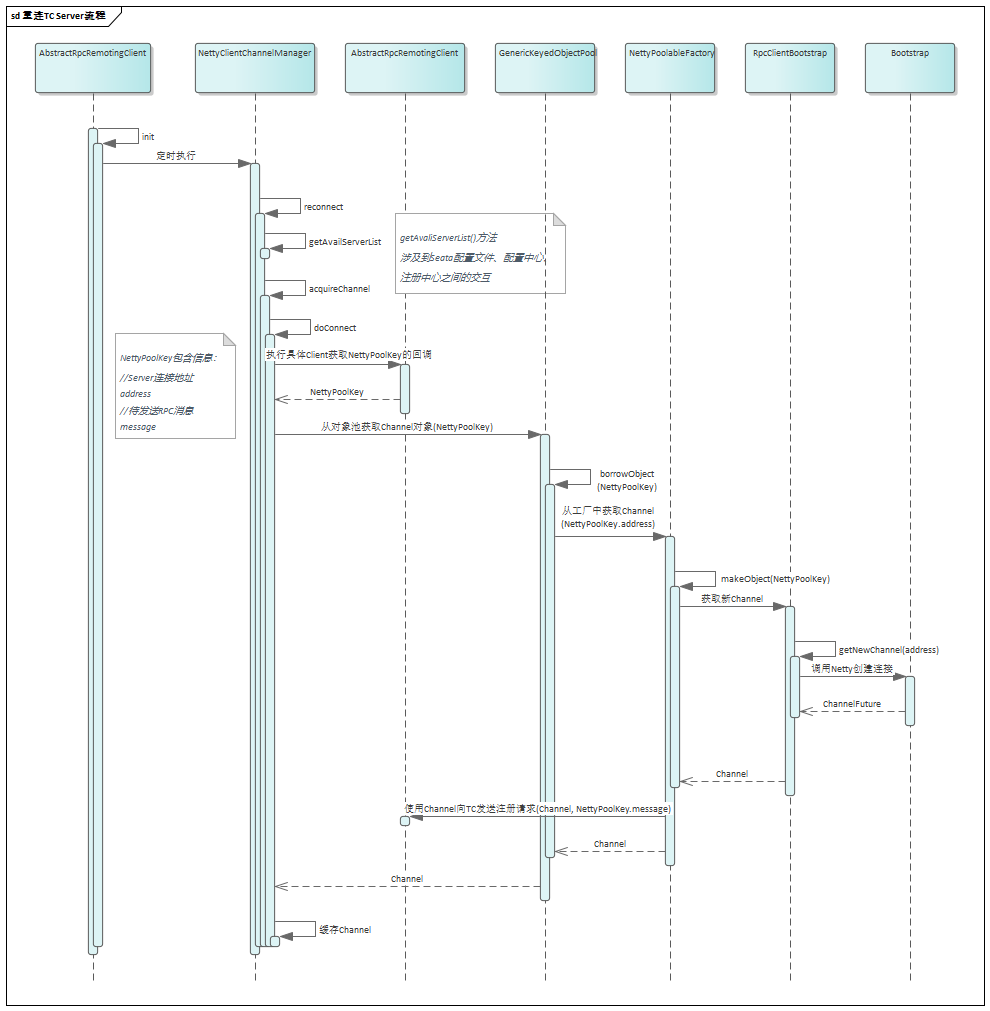
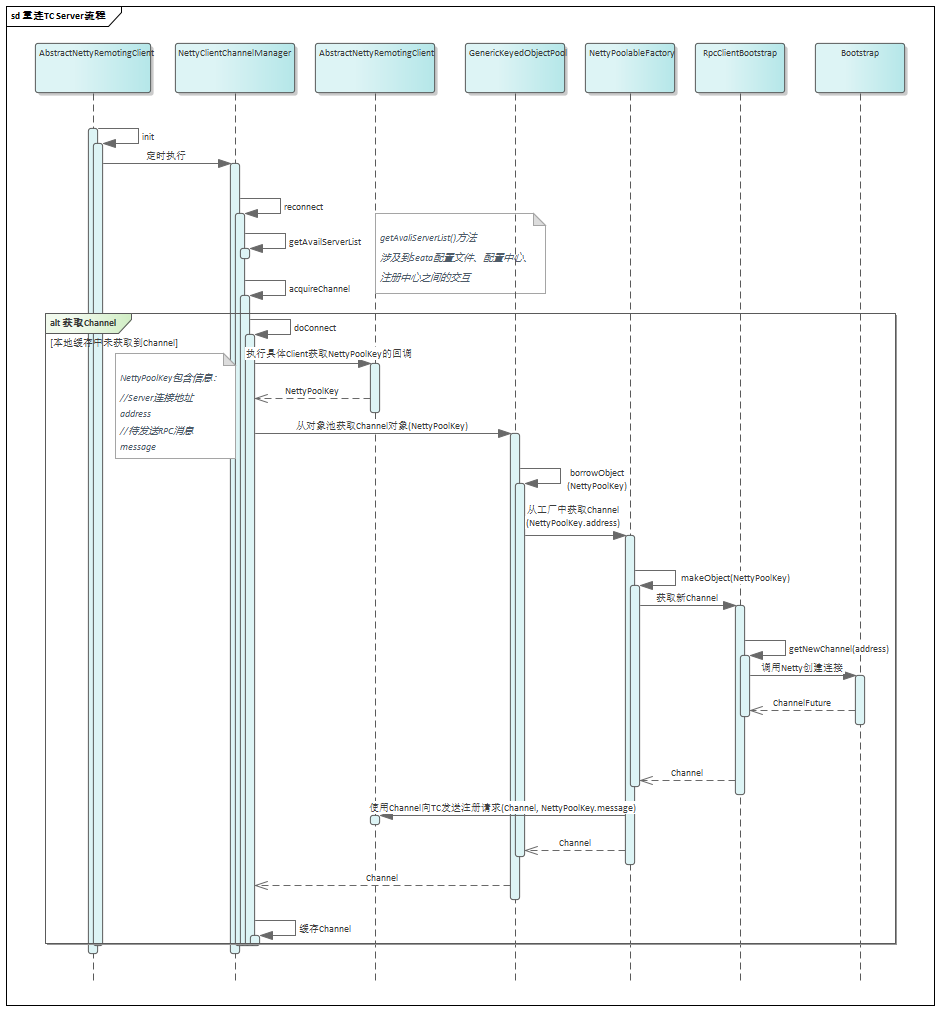
update seata

diff --git a/_posts/2021-02-28-seata-client-start-analysis-01.md b/_posts/2021-02-28-seata-client-start-analysis-01.md
@@ -28,6 +28,10 @@ tags:
 
 除此之外，应用侧RPC客户端（TMClient、RMClient）初始化、与TC建立连接的流程，也是在GlobalTransactionScanner#afterPropertiesSet()中发起的：
 ````java
+    /**
+     * package：io.seata.spring.annotation
+     * class：GlobalTransactionScanner
+     */
     @Override
     public void afterPropertiesSet() {
         if (disableGlobalTransaction) {
@@ -45,15 +49,19 @@ tags:
 ## RM & TM 的初始化与连接过程
 这里，我们以RMClient.init()为例说明，TMClient的初始化过程亦同理。
 ### 类关系的设计
-查看RMClient#init()的源码，我们发现，RMClient先构造了一个RmRpcClient，然后执行其init()方法。而RmRpcClient的构造器和init()方法，都会逐层调用父类的构造器与初始化逻辑。
+查看RMClient#init()的源码，我们发现，RMClient先构造了一个RmNettyRemotingClient，然后执行其init()方法。而RmNettyRemotingClient的构造器和init()方法，都会逐层调用父类的构造器与初始化逻辑。
 ```java
+    /**
+     * package：io.seata.rm
+     * class：RMClient
+     */
     public static void init(String applicationId, String transactionServiceGroup) {
-        //① 首先从RmRpcClient类开始，依次调用父类的构造器
-        RmRpcClient rmRpcClient = RmRpcClient.getInstance(applicationId, transactionServiceGroup);
-        rmRpcClient.setResourceManager(DefaultResourceManager.get());
-        rmRpcClient.setClientMessageListener(new RmMessageListener(DefaultRMHandler.get(), rmRpcClient));
-        //② 然后从RmRpcClient类开始，依次调用父类的init()
-        rmRpcClient.init();
+        //① 首先从RmNettyRemotingClient类开始，依次调用父类的构造器        
+        RmNettyRemotingClient rmNettyRemotingClient = RmNettyRemotingClient.getInstance(applicationId, transactionServiceGroup);
+        rmNettyRemotingClient.setResourceManager(DefaultResourceManager.get());
+        rmNettyRemotingClient.setTransactionMessageHandler(DefaultRMHandler.get());
+        //② 然后从RmNettyRemotingClient类开始，依次调用父类的init()
+        rmNettyRemotingClient.init();
     }
 ```
 上述RMClient系列各类之间的关系以及调用构造器和init()初始化方法的过程如下图示意：
@@ -87,13 +95,12 @@ tags:
 * NettyClientChannelManager:
   - 初始化并持有GenericKeydObjectPool对象池
   - 与对象池交互，对应用侧Channel进行管理（获取、释放、销毁、缓存等）
-* AbstractRpcRemotingClient
+* AbstractNettyRemotingClient
   - 初始化并持有RpcClientBootstrap
   - 抽象化应用侧Client（RM/TM）取得各自Channel对应的NettyPoolKey的能力，供NettyClientChannelManager调用
   - 初始化NettyPoolableFactory
 
 了解上述概念后，我们可以把Seata中创建Channel的过程简化如下：
-<!-- ![创建Channel对象过程](../img/in-post/create_channel.jpg) -->
 ![创建Channel对象过程](http://booogu.top/img/in-post/create_channel.jpg)
 
 看到这里，大家可以回过头再看看上面的**RMClient的初始化序列图**，应该会对RMClient中各类的职责、关系，以及整个初始化过程的意图有一个比较清晰的理解了。
@@ -103,21 +110,29 @@ tags:
 
 在参考上面序列图和阅读init()方法源码的过程中，大家会发现，很多init()方法都设定了一些定时任务，而Seata应用侧与协调器的重连（连接）机制，就是通过定时任务的执行来实现的：
 
-```appscript
+```java
     /**
-     * Class io.seata.core.rpc.netty.AbstractRpcRemotingClient
+     * package：io.seata.core.rpcn.netty
+     * class：AbstractNettyRemotingClient
      */
     public void init() {
-        clientBootstrap.setChannelHandlers(new ClientHandler());
-        clientBootstrap.start();
         //设置定时器，定时重连TC Server
         timerExecutor.scheduleAtFixedRate(new Runnable() {
             @Override
             public void run() {
                 clientChannelManager.reconnect(getTransactionServiceGroup());
             }
-        }, SCHEDULE_INTERVAL_MILLS, SCHEDULE_INTERVAL_MILLS, TimeUnit.SECONDS);
-        //以下代码略
+        }, SCHEDULE_DELAY_MILLS, SCHEDULE_INTERVAL_MILLS, TimeUnit.MILLISECONDS);
+        if (NettyClientConfig.isEnableClientBatchSendRequest()) {
+            mergeSendExecutorService = new ThreadPoolExecutor(MAX_MERGE_SEND_THREAD,
+                MAX_MERGE_SEND_THREAD,
+                KEEP_ALIVE_TIME, TimeUnit.MILLISECONDS,
+                new LinkedBlockingQueue<>(),
+                new NamedThreadFactory(getThreadPrefix(), MAX_MERGE_SEND_THREAD));
+            mergeSendExecutorService.submit(new MergedSendRunnable());
+        }
+        super.init();
+        clientBootstrap.start();
     }
 ```
 
@@ -126,7 +141,7 @@ tags:
 ![RMClient与TC Server连接过程](http://booogu.top/img/in-post/rmclient_connect_tcserver.png)
 
 这个图中，大家可以重点关注这几个点：
-* NettyClientChannelManager执行具体AbstractRpcRemotingClient中，获取NettyPoolKey的回调函数（getPoolKeyFunction()）：应用侧的不同Client（RMClient与TMClient），在创建Channel时使用的Key不同，使**两者在重连TC Server时，发送的注册消息不同**，这也是由两者在Seata中扮演的角色不同而决定的：
+* NettyClientChannelManager执行具体AbstractNettyRemotingClient中，获取NettyPoolKey的回调函数（getPoolKeyFunction()）：应用侧的不同Client（RMClient与TMClient），在创建Channel时使用的Key不同，使**两者在重连TC Server时，发送的注册消息不同**，这也是由两者在Seata中扮演的角色不同而决定的：
   - TMClient：扮演事务管理器角色，创建Channel时，仅向TC发送TM注册请求（RegisterTMRequest）即可。
   - RMClient：扮演资源管理器角色，需要管理应用侧所有的事务资源，因此在创建Channel时，需要在发送RM注册请求（RegesterRMRequest）前，获取应用侧所有事务资源（Resource）信息，注册至TC Server。
 * 在Channel对象工厂NettyPoolableFactory的makeObject（制造Channel）方法中，使用NettyPoolKey中的两项信息，完成了两项任务：
